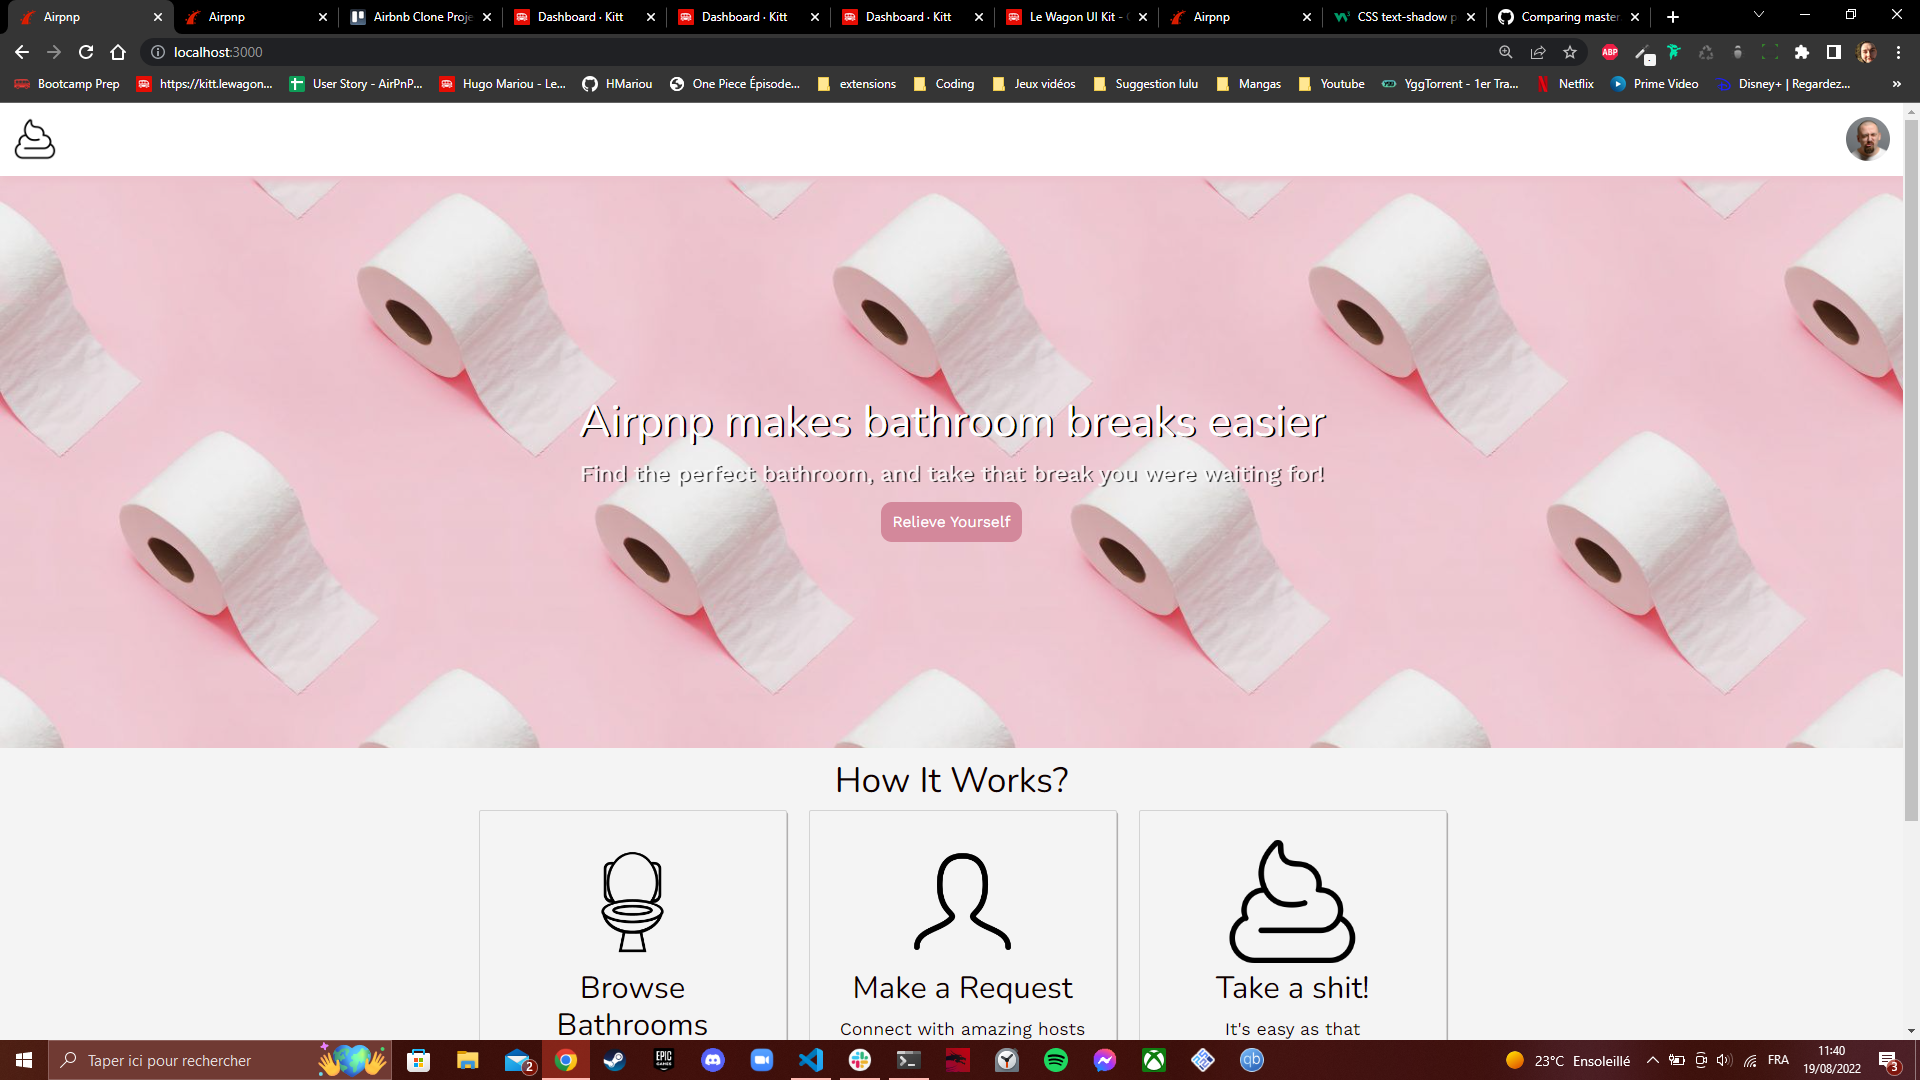
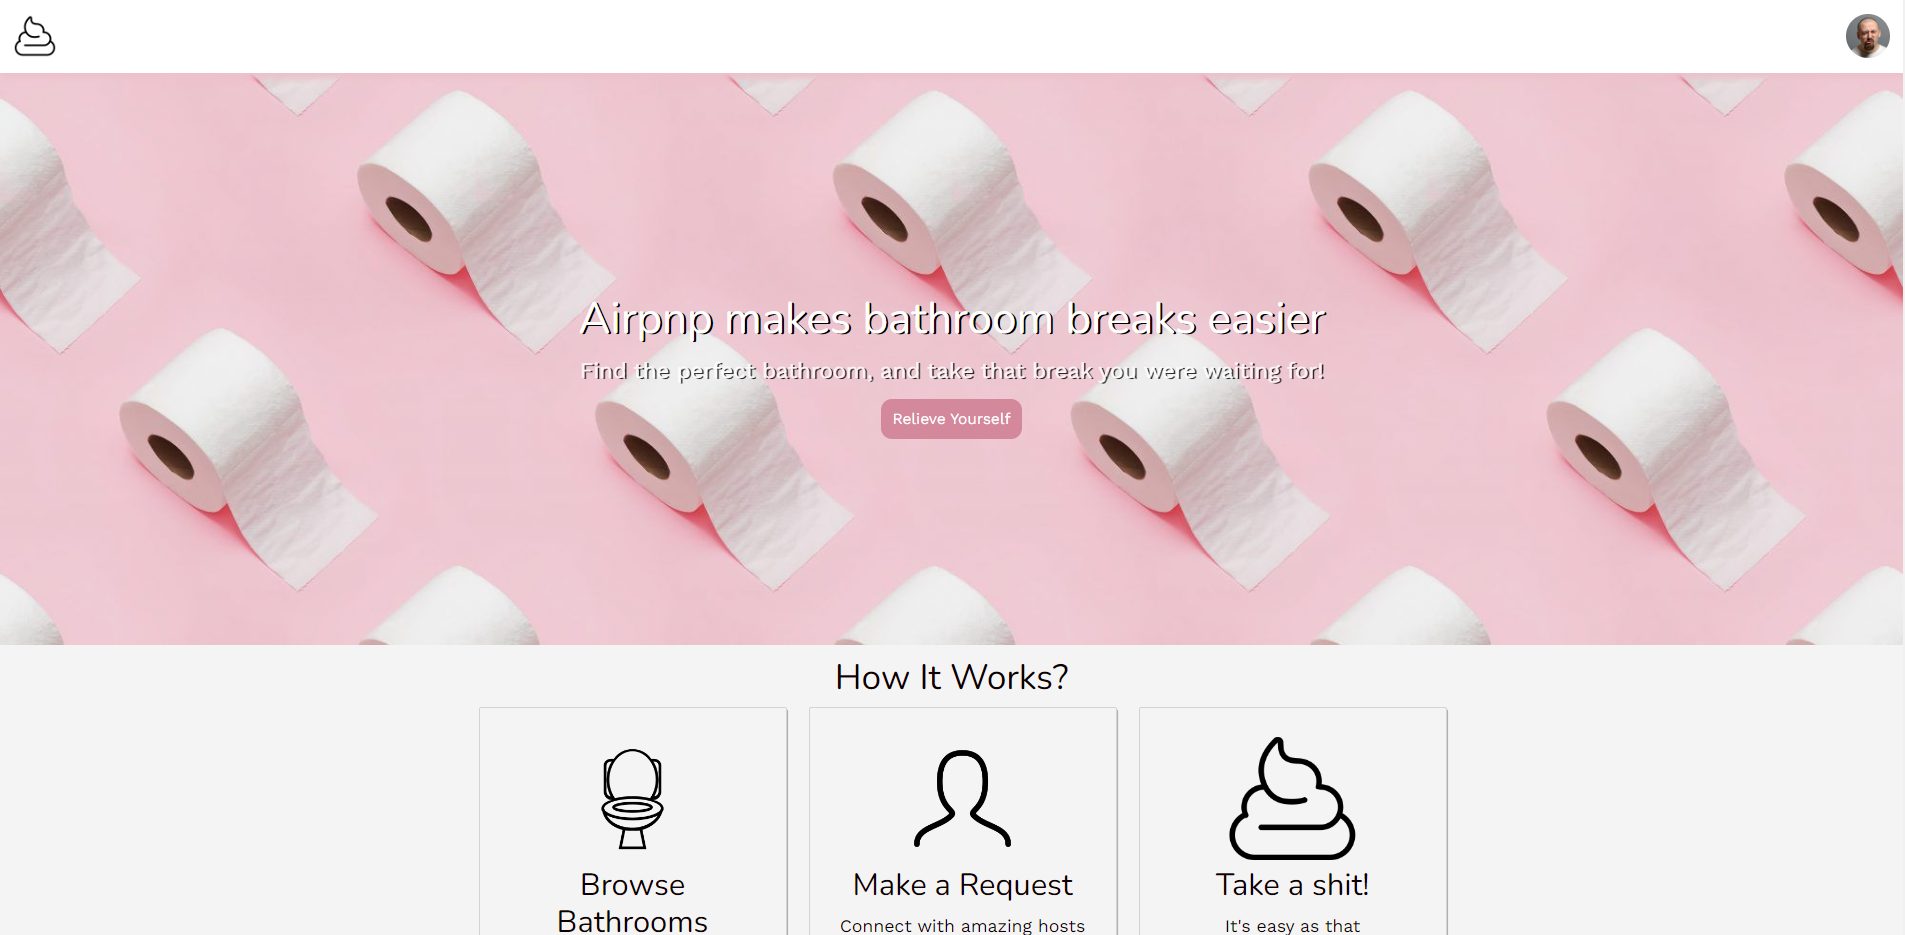
added cards and img to projects

diff --git a/app/assets/stylesheets/components/_card.scss b/app/assets/stylesheets/components/_card.scss
@@ -4,12 +4,12 @@ body {
 
   .container {
     max-width: 100vw;
-    min-height: 50%;
-    display: grid;
-    grid-template-columns: repeat(auto-fit, minmax(300px, 1fr));
+    min-height: 100%;
     grid-gap: 35px;
     margin: 0 auto;
     padding: 40px 0;
+    display: flex;
+    justify-content: center;
 
     .card {
       position: relative;
@@ -103,4 +103,28 @@ body {
     }
 
   }
+}
+
+.face.face3 {
+  background-image: url("airpnp.png");
+  background-position: center;
+  background-size: cover;
+  background-repeat: no-repeat;
+  border-radius: 15px;
+}
+
+.face.face4 {
+  background-image: url("minder.png");
+  background-position: center;
+  background-size: cover;
+  background-repeat: no-repeat;
+  border-radius: 15px;
+}
+
+.face.face5 {
+  background-image: url("my_website.png");
+  background-position: center;
+  background-size: cover;
+  background-repeat: no-repeat;
+  border-radius: 15px;
 }

diff --git a/app/assets/stylesheets/components/_index.scss b/app/assets/stylesheets/components/_index.scss
@@ -28,7 +28,6 @@ header {
   width: 100%;
   height: 89vh;
   display: flex;
-
   justify-content: right;
 
 }
@@ -57,7 +56,6 @@ a {
 
 body {
   background-color: #101010e6;
-  margin-bottom: 25px;
 }
 
 
@@ -94,8 +92,12 @@ h2 {
   margin-top: 200px;
   margin-right: 50px;
   margin-left: 500px;
-  font-size: 20px;
+  font-size: 30px;
   color: white;
   font-family: 'Roboto', sans-serif;
   text-align: right;
+}
+
+.container {
+  min-height: auto;
 }

diff --git a/app/assets/stylesheets/components/_footer.scss b/app/assets/stylesheets/components/_footer.scss
@@ -2,7 +2,7 @@
   display: flex;
   justify-content: center;
   gap: 50px;
-  width: 100%;
+  width: auto;
   height: 70px;
   background-color: #151515;
   border-top: 1px outset rgba(154, 153, 153, 0.195);
@@ -10,9 +10,6 @@
   list-style: none;
 }
 .footer {
-  bottom: 0;
-  right: 0;
-  padding-top: 20px;
 }
 
 @keyframes fadeIn {
